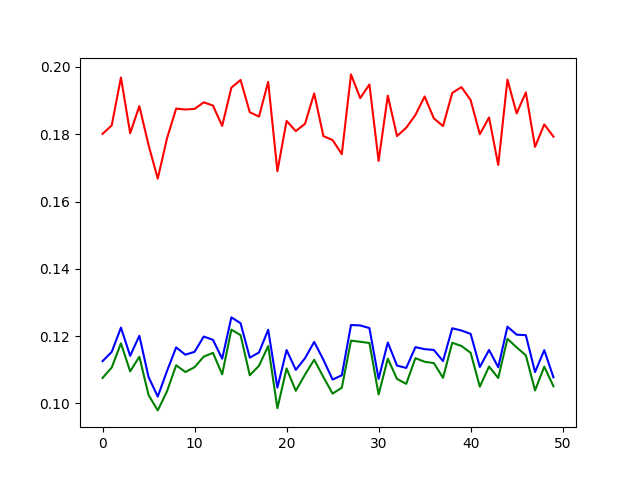
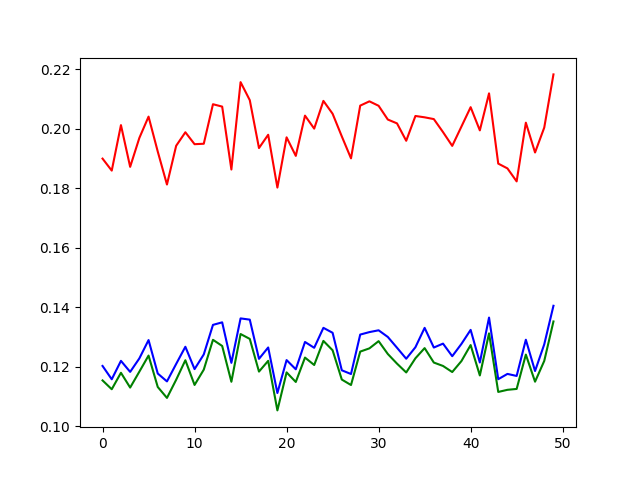
final

diff --git a/task_4.py b/task_4.py
@@ -5,9 +5,9 @@ attributes, list_of_data = k_means.read_csv('mean_data.csv')
 k_means.normalize_data(list_of_data)
 
 # get the value from part iii)
-k = 8
+k = 10
 
-def get_variance(data: list):
+def get_stats(data: list):
 	mean_data = 0
 	mean_data2 = 0
 	for val in data:
@@ -16,7 +16,7 @@ def get_variance(data: list):
 	mean_data2 /= len(data)
 	mean_data /= len(data)
 	var_data = mean_data2 - mean_data**2
-	return var_data
+	return var_data, mean_data
 
 def evaluate_k_means_with_k_centers(full_data, init_method)->dict:
 	indices = []
@@ -62,11 +62,13 @@ def evaluate_k_means_with_k_centers(full_data, init_method)->dict:
 	return [NMI_sc, ARI_sc, Hom_sc]
 
 def evaluate_init(k: int, full_data: list, method, method_name)->None:
+	print("Testing", method_name)
 	metrics = [[],[],[]]
-	for _ in range(50):
+	for r_i in range(50):
 		ps_metrics = evaluate_k_means_with_k_centers(full_data, method)
 		for i in range(3):
 			metrics[i].append(ps_metrics[i])
+		print("got metrics for run =", r_i + 1)
 	
 	import matplotlib.pyplot as plt
 	figure, ax = plt.subplots()
@@ -75,9 +77,12 @@ def evaluate_init(k: int, full_data: list, method, method_name)->None:
 	for i in range(3):
 		ax.plot(metrics[i], color=colors[i])
 	print("\nWith", method_name + ", the variance of metrics were:")
-	print("The variance of NMI:", get_variance(metrics[0]))
-	print("The variance of ARI:", get_variance(metrics[1]))
-	print("The variance of Homogeneity:", get_variance(metrics[2]))
+	st_nmi = get_stats(metrics[0])
+	print("The variance of NMI:", st_nmi[0], "and the mean of NMI:", st_nmi[1])
+	st_ari = get_stats(metrics[1])
+	print("The variance of ARI:", st_ari[0], "and the mean of ARI:", st_ari[1])
+	st_hom = get_stats(metrics[2])
+	print("The variance of homogeneity:", st_hom[0], "and the mean of homogeneity:", st_hom[1])
 	plt.savefig(method_name+'.png')
 	plt.close()
 
